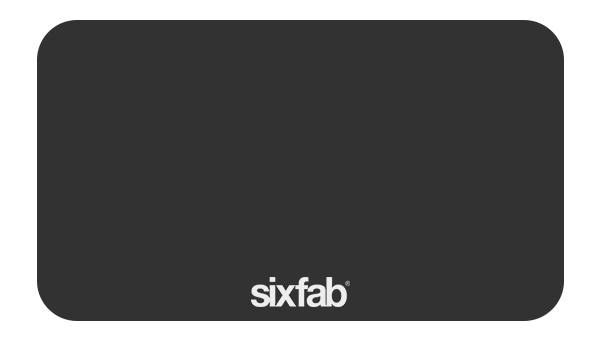
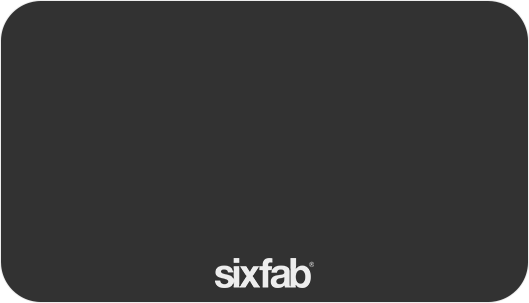
Background Image and Image size settings changed at code

Changed region(s): [[0.0, 0.0, 0.9981, 1.0]]

diff --git a/gui/MainWindow.xaml b/gui/MainWindow.xaml
@@ -1,7 +1,7 @@
 <Window x:Class="SixFabWpf.MainWindow"
         xmlns="http://schemas.microsoft.com/winfx/2006/xaml/presentation"
         xmlns:x="http://schemas.microsoft.com/winfx/2006/xaml"
-        Title="MainWindow" Height="340" Width="600" AllowsTransparency="True" WindowStyle="None" ResizeMode="NoResize" SizeToContent="WidthAndHeight" >
+        Title="MainWindow" Height="303" Width="529" AllowsTransparency="True" WindowStyle="None" ResizeMode="NoResize" SizeToContent="WidthAndHeight" WindowStartupLocation="CenterScreen" >
 
 
 
@@ -9,34 +9,34 @@
         <SolidColorBrush Opacity="0" Color="White"/>
     </Window.Background>
 
-    <Grid HorizontalAlignment="Left" Height="340" VerticalAlignment="Top" Width="600">
-        <Image  Source="backgroundMain.png" />
-        <Label Name="call" HorizontalAlignment="Left" Margin="96,40,0,0" VerticalAlignment="Top" FontSize="18" FontWeight="Bold" Foreground="#FFFE4000" MouseEnter="MouseEnter_Label" MouseLeave="MouseLeave_Label" MouseDown="MouseClick_Label" Width="45" Height="83" >
+    <Grid HorizontalAlignment="Left" Height="303" VerticalAlignment="Top" Width="529">
+        <Image  Source="backgroundMain.png" Width="529" Height="303" />
+        <Label Name="call" HorizontalAlignment="Left" Margin="60,40,0,0" VerticalAlignment="Top" FontSize="18" FontWeight="Bold" Foreground="#FFFE4000" MouseEnter="MouseEnter_Label" MouseLeave="MouseLeave_Label" MouseDown="MouseClick_Label" Width="45" Height="83" >
             <Label.Background>
                 <ImageBrush ImageSource="icons/icon_call_normal.png" />
             </Label.Background>
         </Label>
-        <Label Name="sms" HorizontalAlignment="Left" Margin="274,41,0,0" VerticalAlignment="Top" FontSize="18" FontWeight="Bold" Foreground="#FFFE4000" MouseEnter="MouseEnter_Label" MouseLeave="MouseLeave_Label" MouseDown="MouseClick_Label" Width="48" Height="81" >
+        <Label Name="sms" HorizontalAlignment="Left" Margin="238,41,0,0" VerticalAlignment="Top" FontSize="18" FontWeight="Bold" Foreground="#FFFE4000" MouseEnter="MouseEnter_Label" MouseLeave="MouseLeave_Label" MouseDown="MouseClick_Label" Width="48" Height="81" >
             <Label.Background>
                 <ImageBrush ImageSource="icons/icon_sms_normal.png" />
             </Label.Background>
         </Label>
-        <Label Name="audio" HorizontalAlignment="Left" Margin="436,42,0,0" VerticalAlignment="Top" FontSize="18" FontWeight="Bold" Foreground="#FFFE4000" MouseEnter="MouseEnter_Label" MouseLeave="MouseLeave_Label" MouseDown="MouseClick_Label" Width="58" Height="81" >
+        <Label Name="audio" HorizontalAlignment="Left" Margin="400,42,0,0" VerticalAlignment="Top" FontSize="18" FontWeight="Bold" Foreground="#FFFE4000" MouseEnter="MouseEnter_Label" MouseLeave="MouseLeave_Label" MouseDown="MouseClick_Label" Width="58" Height="81" >
             <Label.Background>
                 <ImageBrush ImageSource="icons/icon_audio_normal.png" />
             </Label.Background>
         </Label>
-        <Label Name="location" HorizontalAlignment="Left" Margin="74,139,0,0" VerticalAlignment="Top" FontSize="18" FontWeight="Bold" Foreground="#FFFE4000" MouseEnter="MouseEnter_Label" MouseLeave="MouseLeave_Label" MouseDown="MouseClick_Label" Width="90" Height="78" >
+        <Label Name="location" HorizontalAlignment="Left" Margin="38,139,0,0" VerticalAlignment="Top" FontSize="18" FontWeight="Bold" Foreground="#FFFE4000" MouseEnter="MouseEnter_Label" MouseLeave="MouseLeave_Label" MouseDown="MouseClick_Label" Width="90" Height="78" >
             <Label.Background>
                 <ImageBrush ImageSource="icons/icon_location_normal.png" />
             </Label.Background>
         </Label>
-        <Label Name="socket" HorizontalAlignment="Left" Margin="429,142,0,0" VerticalAlignment="Top" FontSize="18" FontWeight="Bold" Foreground="#FFFE4000" MouseEnter="MouseEnter_Label" MouseLeave="MouseLeave_Label" MouseDown="MouseClick_Label" Width="71" Height="72" >
+        <Label Name="socket" HorizontalAlignment="Left" Margin="393,142,0,0" VerticalAlignment="Top" FontSize="18" FontWeight="Bold" Foreground="#FFFE4000" MouseEnter="MouseEnter_Label" MouseLeave="MouseLeave_Label" MouseDown="MouseClick_Label" Width="71" Height="72" >
             <Label.Background>
                 <ImageBrush ImageSource="icons/icon_socket_normal.png" />
             </Label.Background>
         </Label>
-        <Label Name="http" HorizontalAlignment="Left" Margin="272,142,0,0" VerticalAlignment="Top" FontSize="18" FontWeight="Bold" Foreground="#FFFE4000" MouseEnter="MouseEnter_Label" MouseLeave="MouseLeave_Label" MouseDown="MouseClick_Label" Width="53" Height="78" >
+        <Label Name="http" HorizontalAlignment="Left" Margin="236,142,0,0" VerticalAlignment="Top" FontSize="18" FontWeight="Bold" Foreground="#FFFE4000" MouseEnter="MouseEnter_Label" MouseLeave="MouseLeave_Label" MouseDown="MouseClick_Label" Width="53" Height="78" >
             <Label.Background>
                 <ImageBrush ImageSource="icons/icon_http_normal.png"  />
             </Label.Background>
